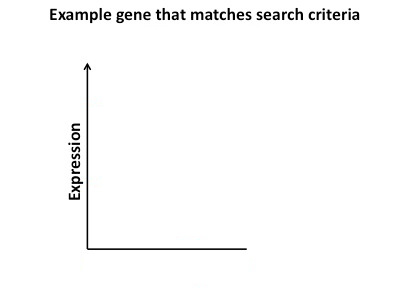
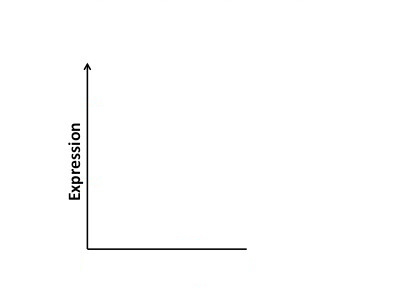
The following changes were made:   * Updated graph title   * Indicator of fold change region in graph is a bracket (hopefully clearer)   * Fold change region is graph is highlighted yellow (I think this will help clarify that it is the area of interest; just a thought).   * Sentence for sample opera
refs #11691

git-svn-id: https://cbilsvn.pmacs.upenn.edu/svn/apidb/ApiCommonWebsite/branches/fold_change_graph@56468 735e2a04-f8fc-0310-8a1b-f2942603c481

Changed region(s): [[0.12, 0.03, 0.9, 0.09]]

diff --git a/Site/webapp/wdkCustomization/js/questions/fold-change.js b/Site/webapp/wdkCustomization/js/questions/fold-change.js
@@ -16,6 +16,12 @@ wdk.util.namespace("eupathdb.foldChange", function(ns, $) {
     this.samples = [];
   };
 
+  var formula = function(leftHandSide, numerator, denominator) {
+    this.leftHandSide = leftHandSide;
+    this.numerator = numerator;
+    this.denominator = denominator;
+  };
+
   /** 
    * set the sample step in px and where the first sample goes
    * String @operation - one of minimum, maximum, average
@@ -76,6 +82,7 @@ wdk.util.namespace("eupathdb.foldChange", function(ns, $) {
     twoDirectionTmpl = Handlebars.compile($("#two-direction-template").html());
     Handlebars.registerPartial("samples", $("#samples-partial").html());
     Handlebars.registerPartial("foldChange", $("#foldChange-partial").html());
+    Handlebars.registerPartial("formula", $("#formula-partial").html());
 
     $img = $(".fold-change-img");
     $form = $("form#form_question").last();
@@ -112,22 +119,22 @@ wdk.util.namespace("eupathdb.foldChange", function(ns, $) {
     if (refCount <= 1) {
       refOp.attr("disabled", true);
       refOp.find(":selected").text("none");
-      refOp.parent().hide().next().hide();
+      refOp.parent().hide(); //.next().hide();
     } else {
       refOp.attr("disabled", false);
       refOp.find(":selected").text(refOp.val().slice(0, -1));
-      refOp.parent().show().next().show();
+      refOp.parent().show(); //.next().show();
     }
 
     // if compCount <= 1, make ops disabled
     if (compCount <=1) {
       compOp.attr("disabled", true);
       compOp.find(":selected").text("none");
-      compOp.parent().hide().next().hide();
+      compOp.parent().hide(); //.next().hide();
     } else {
       compOp.attr("disabled", false);
       compOp.find(":selected").text(compOp.val().slice(0, -1));
-      compOp.parent().show().next().show();
+      compOp.parent().show(); //.next().show();
     }
 
     // if "up or down regulated" selected, disable ops
@@ -156,16 +163,31 @@ wdk.util.namespace("eupathdb.foldChange", function(ns, $) {
     $scope.multipleRef = $scope.refCount > 1;
     $scope.multipleComp = $scope.compCount > 1;
 
+    $scope.formulas = [];
+    var compFormula, refFormula;
+
     if ($scope.multipleRef) {
-      $scope.numerator = $scope.refOperation + " expression value in reference samples";
+      refFormula = '<span class="reference-label">' +
+        $scope.refOperation + '</span> expression value in ' +
+        '<span class="reference-label">reference</span> samples';
     } else {
-      $scope.numerator = "reference expression value";
+      refFormula = '<span class="reference-label">reference</span> expression value';
     }
 
     if ($scope.multipleComp) {
-      $scope.denominator = $scope.compOperation + " expression value in comparison samples";
+      compFormula = '<span class="comparison-label">' +
+        $scope.compOperation + '</span> expression value in ' +
+        '<span class="comparison-label">comparison</span> samples';
     } else {
-      $scope.denominator = "comparison expression value";
+      compFormula = '<span class="comparison-label">comparison</span> expression value';
+    }
+
+    if ($scope.direction === "up-regulated" || $scope.direction === "up or down regulated") {
+      $scope.formulas.push(new formula("fold change", compFormula, refFormula));
+    }
+
+    if ($scope.direction === "down-regulated" || $scope.direction === "up or down regulated") {
+      $scope.formulas.push(new formula("fold change", refFormula, compFormula));
     }
 
     $scope.narrowest = false;
